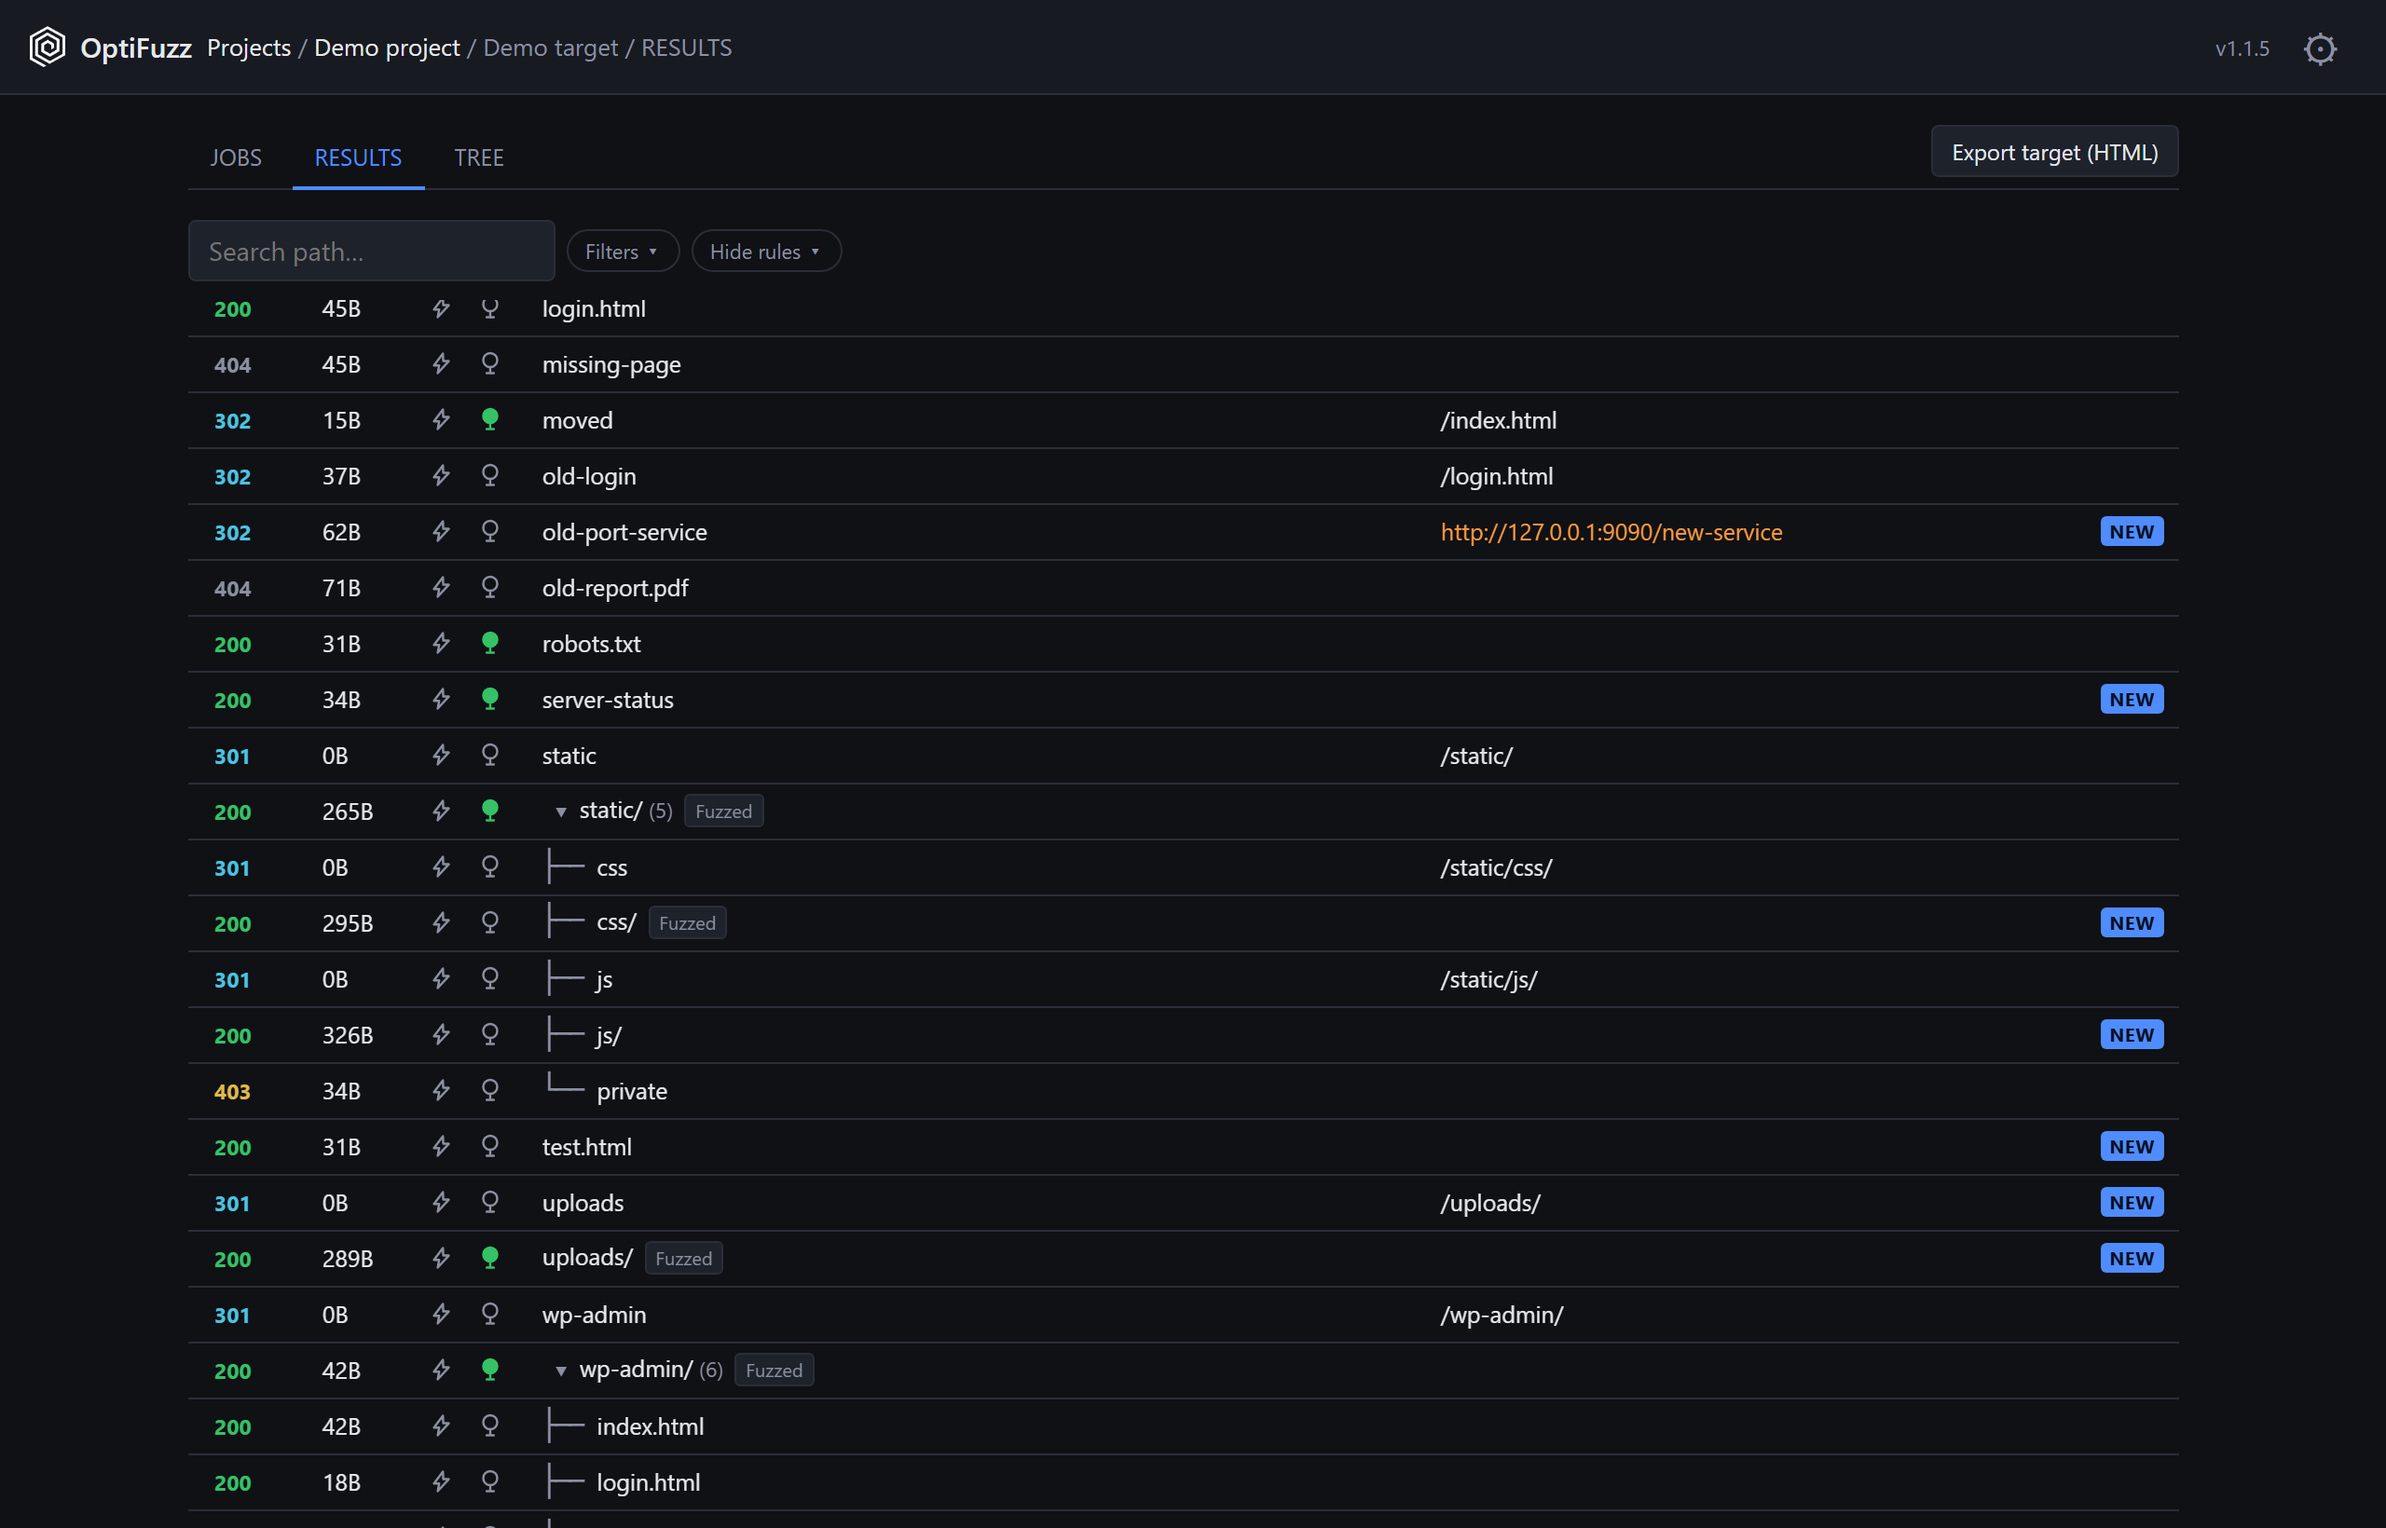
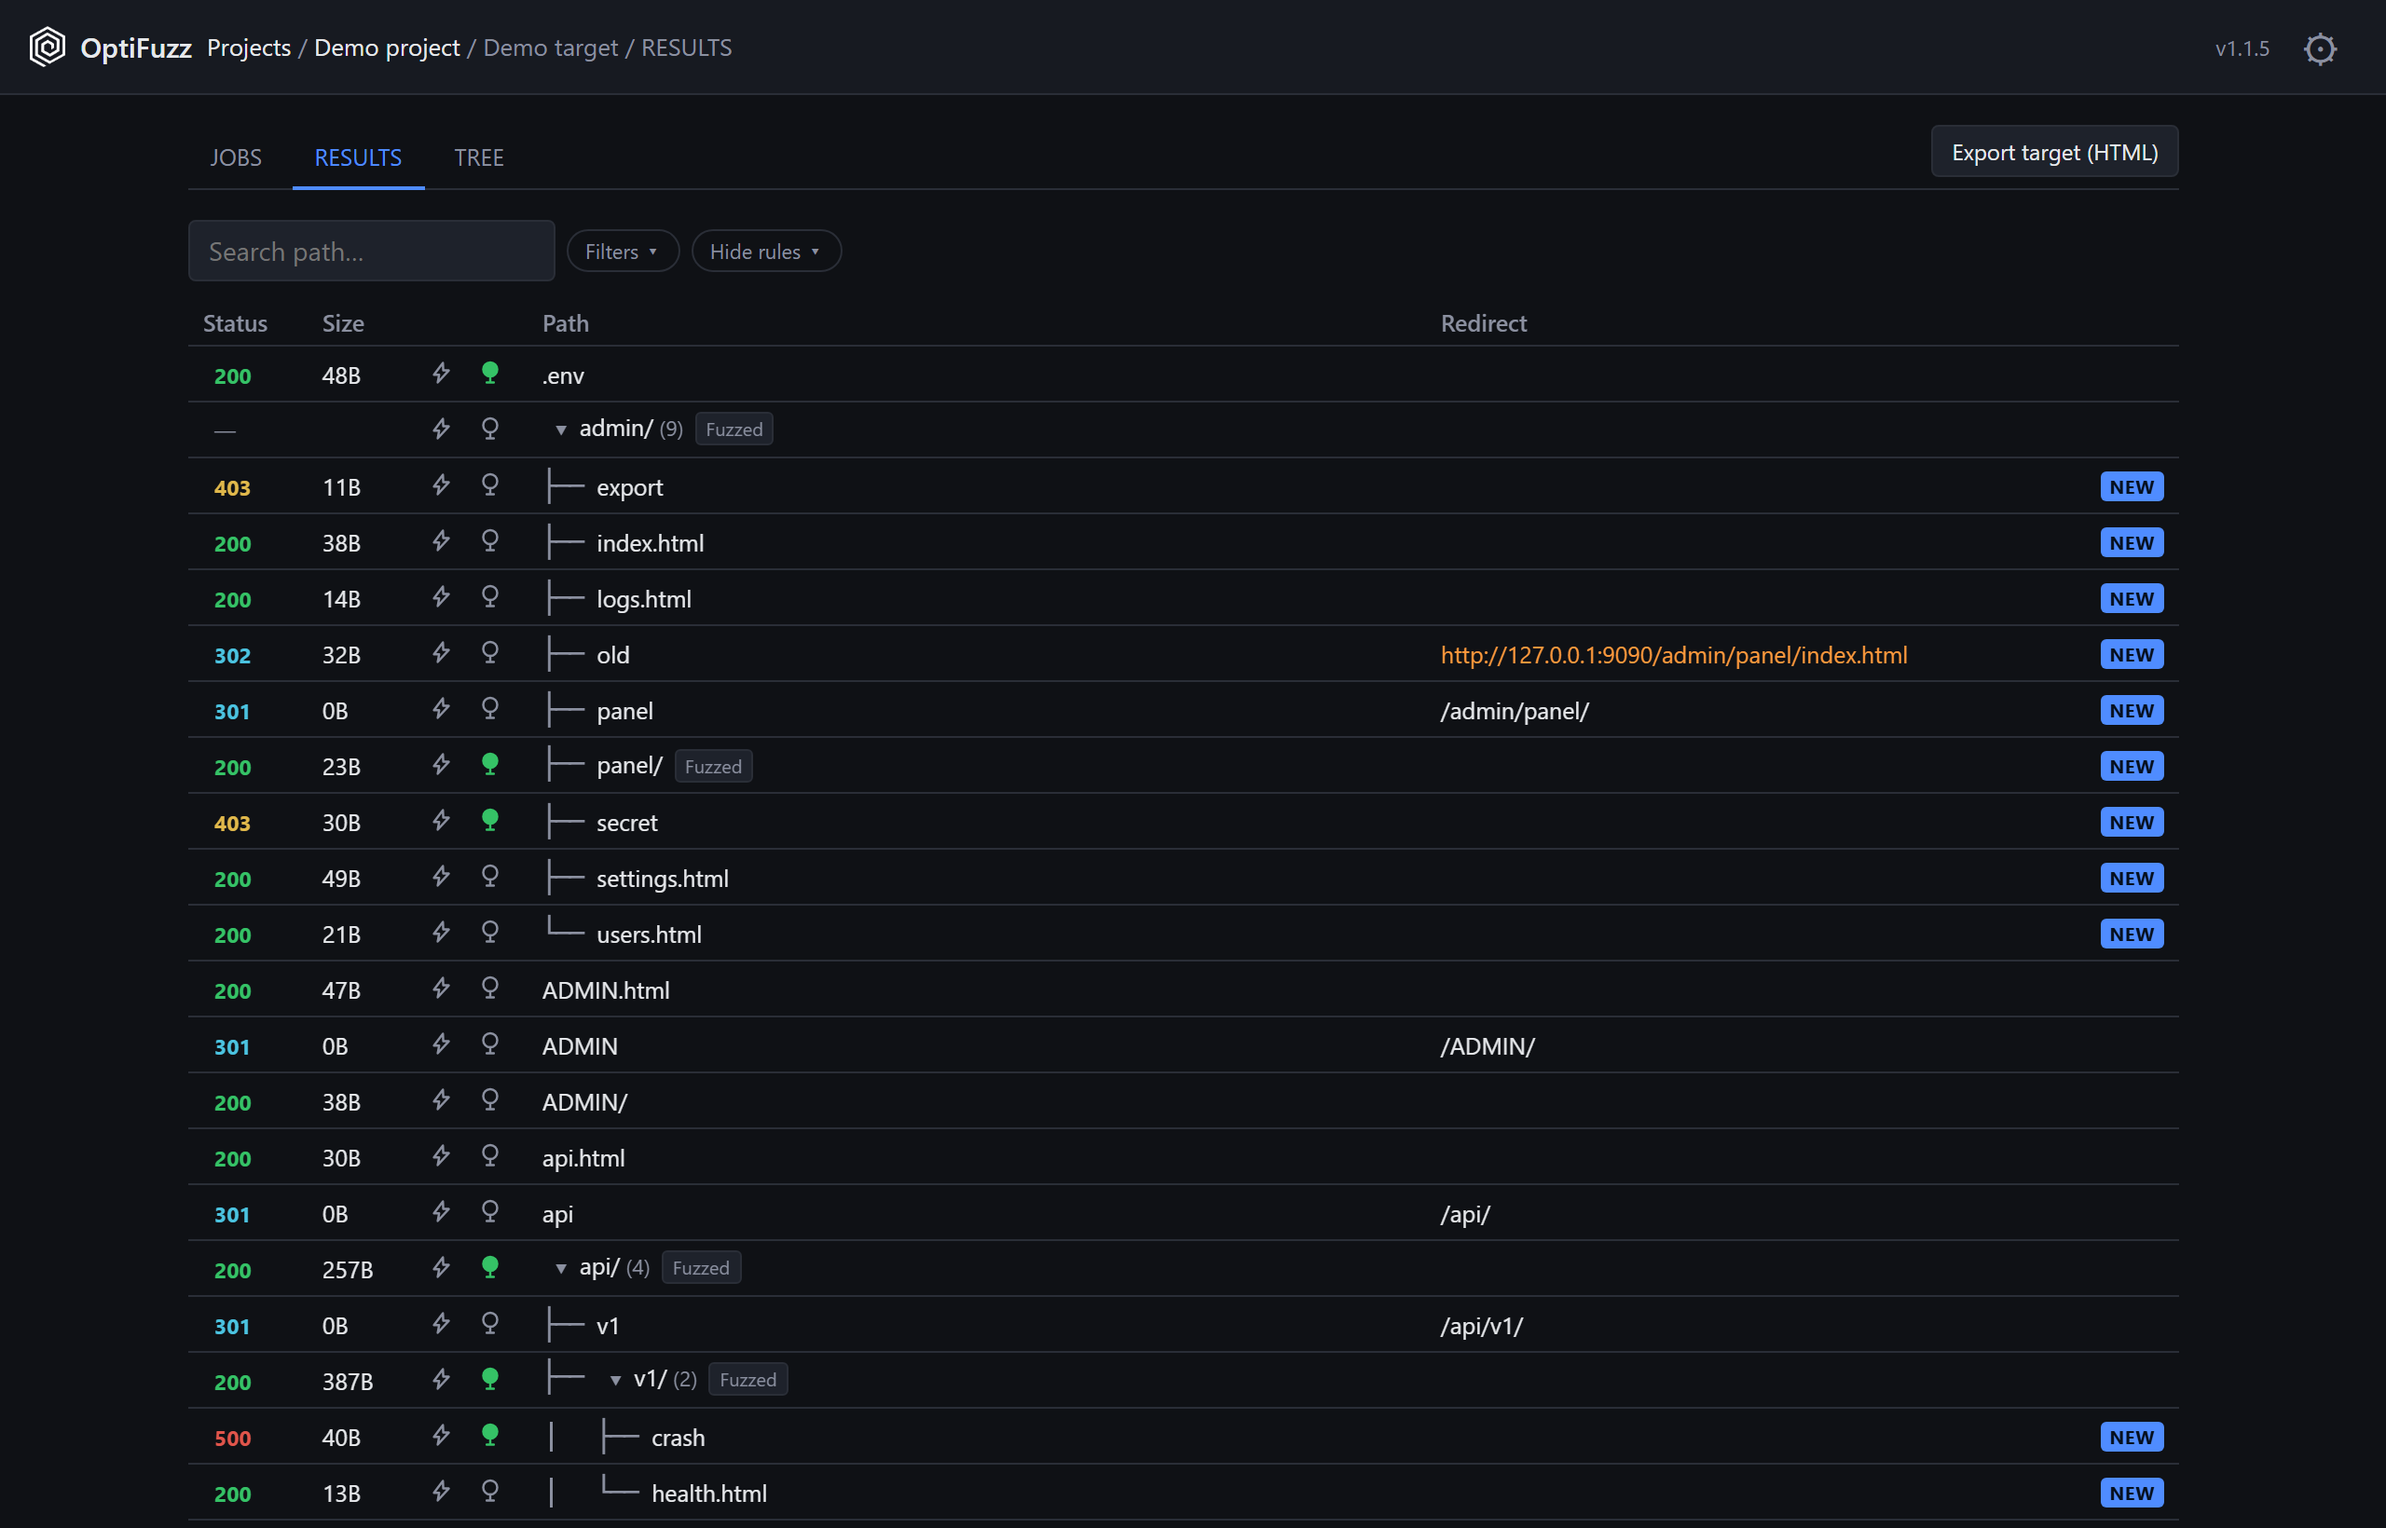
Results screenshot shows the column headers; demo target: /admin/old redirects to another port

diff --git a/app/dev/demo-target/demo_server.py b/app/dev/demo-target/demo_server.py
@@ -42,7 +42,7 @@ SPECIAL_ROUTES = {
     # Status variety inside subfolders, so FUZZ TREE children / Results
     # filters have 403/404/302/500 entries below the root too.
     "/admin/secret": (403, b"Forbidden: admin secret area.\n"),
-    "/admin/old": (302, b"Moved to the new admin panel...\n", "/admin/panel/index.html"),
+    "/admin/old": (302, b"Moved to the new admin panel...\n", "http://127.0.0.1:9090/admin/panel/index.html"),  # leaves this origin
     "/admin/export": (403, b"Forbidden.\n"),
     "/api/v1/internal": (403, b"Forbidden: internal API, not for external use.\n"),
     "/api/v1/crash": (500, b"Internal Server Error in /api/v1/crash.\n"),

diff --git a/app/dev/demo-target/README.md b/app/dev/demo-target/README.md
@@ -57,7 +57,7 @@ Routes that deliberately answer something else, so status handling can be checke
 | `/external-docs` | 302 | to another host (`https://example.com/docs`); leave "follow redirects" off |
 | `/crash`, `/broken-export` | 500 | |
 | `/admin/secret`, `/admin/export` | 403 | inside a subdirectory |
-| `/admin/old` | 302 | to `/admin/panel/index.html` |
+| `/admin/old` | 302 | to `/admin/panel/index.html` on the same host, another port (`127.0.0.1:9090`) |
 | `/api/v1/internal` | 403 | |
 | `/api/v1/crash`, `/api/v2/debug` | 500 | |
 | `/api/v2/beta` | 404 | custom page |
